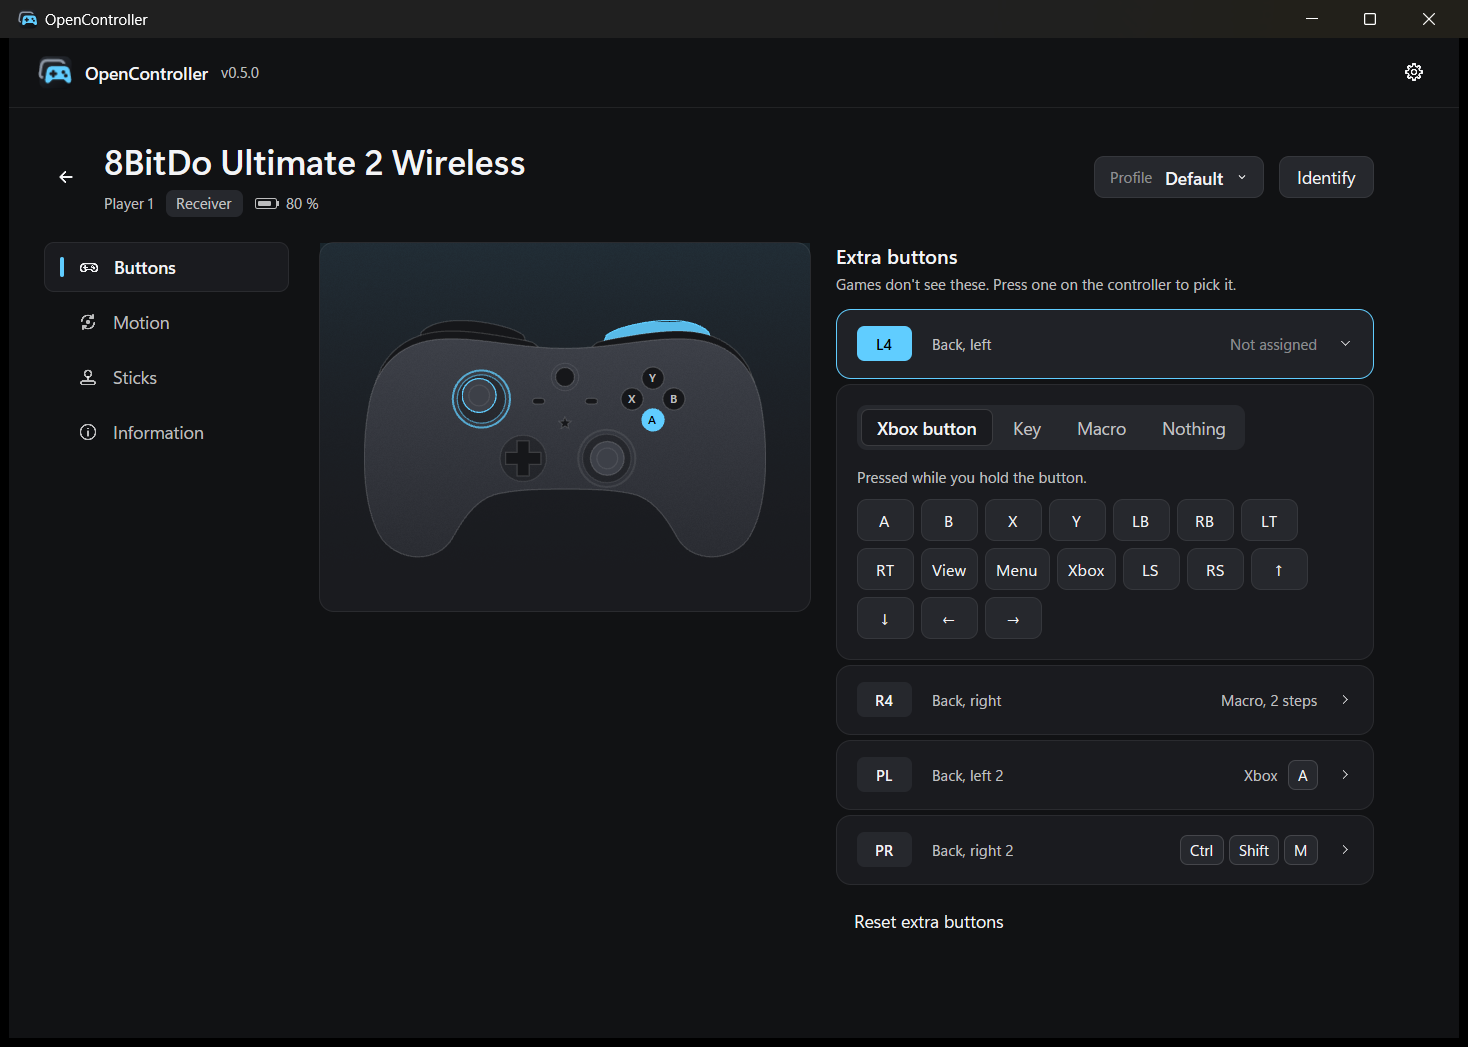
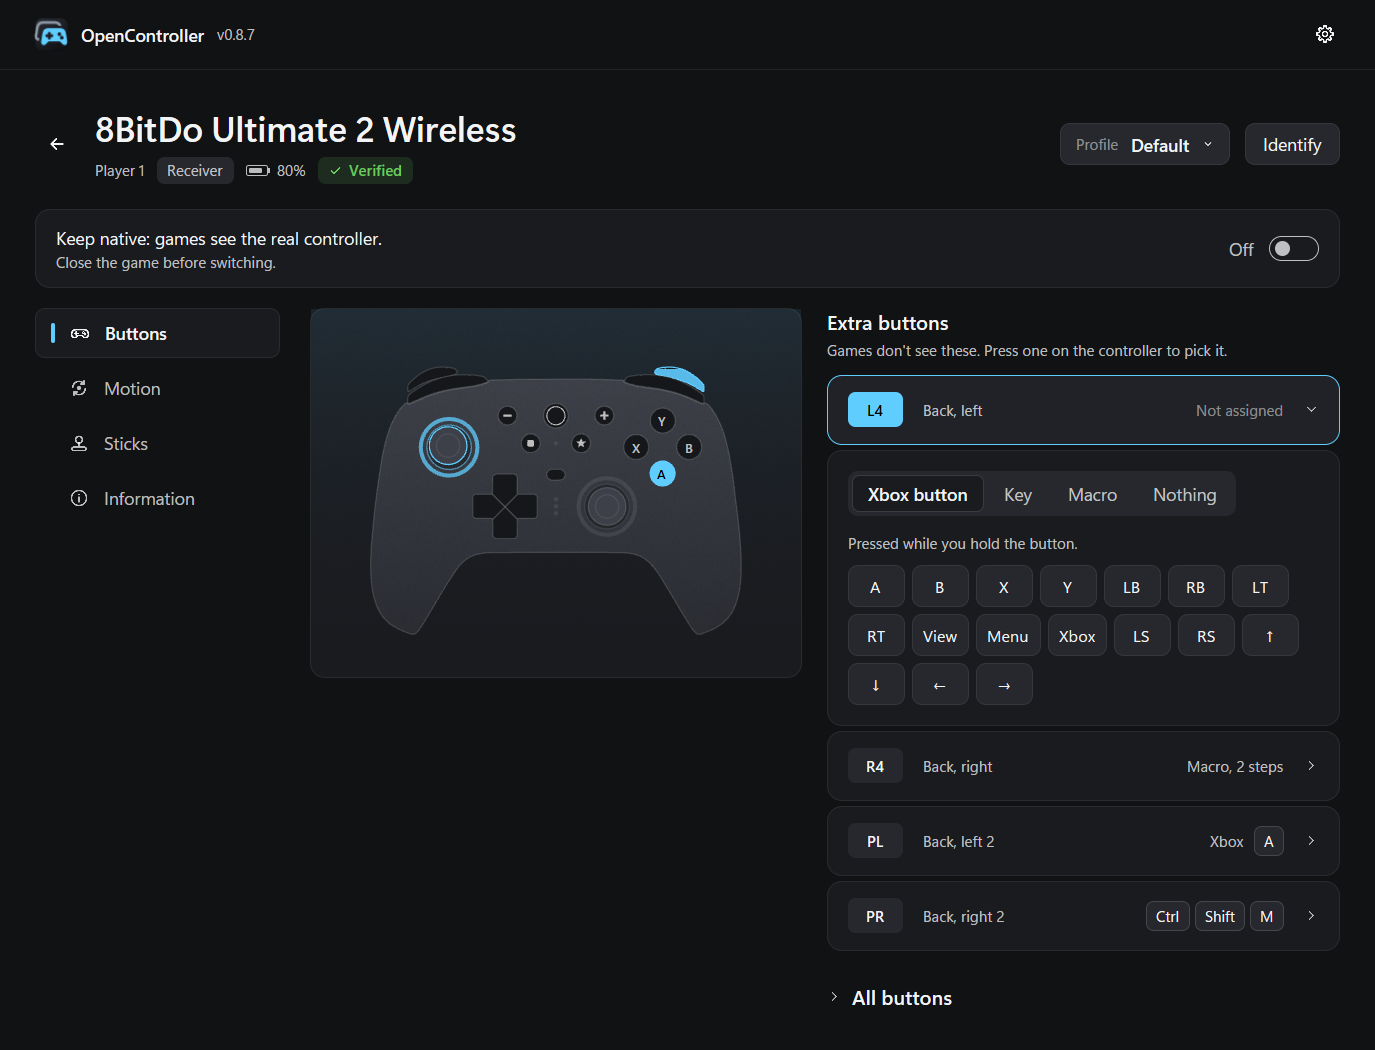
Release 0.8.7

diff --git a/README.md b/README.md
@@ -14,7 +14,7 @@ It works with the several hundred controllers SDL knows and keeps out of the way
 controller and the game. Xbox controllers are left alone, since games already read them. The
 window is a separate program that only exists while it is open.
 
-OpenController is open source (MIT) and in beta, at version 0.8.6. With so many controllers out
+OpenController is open source (MIT) and in beta, at version 0.8.7. With so many controllers out
 there, some will not work as they should yet and some features are still missing, so every report
 helps. If your controller is not recognised, a button does nothing or anything else goes wrong,
 feel free to [open an issue](https://github.com/Brunovncs/OpenController/issues); see
@@ -32,7 +32,7 @@ with its SHA-256 next to it.
 
 ### Windows
 
-Download `open-controller-0.8.6-windows-x64-setup.exe` and run it. It installs for your user only,
+Download `open-controller-0.8.7-windows-x64-setup.exe` and run it. It installs for your user only,
 without administrator rights, adds OpenController to the Start menu and to Apps in Settings
 (where it uninstalls), and starts it. Run it again over an existing installation, or let the app
 do it, and it updates in place: the running copy quits first, and your settings, kept in
@@ -40,7 +40,7 @@ do it, and it updates in place: the running copy quits first, and your settings,
 too. The installer is not code-signed, so
 SmartScreen warns the first time ("More info", then "Run anyway").
 
-To run it without installing, download `open-controller-0.8.6-windows-x64.zip`, extract it anywhere
+To run it without installing, download `open-controller-0.8.7-windows-x64.zip`, extract it anywhere
 and run `open-controller.exe`. The programs are not code-signed yet, so Windows SmartScreen warns
 on the first start ("More info", then "Run anyway"). Neither the app nor its installation needs
 administrator rights.
@@ -73,7 +73,7 @@ Windows" and "Quit". Closing the window does not stop anything.
 
 ### Linux
 
-Download `open-controller-0.8.6-linux-x64.tar.gz` (built on Ubuntu 22.04; any distribution as
+Download `open-controller-0.8.7-linux-x64.tar.gz` (built on Ubuntu 22.04; any distribution as
 recent works), extract it and run `./install.sh`. It installs the two programs to `~/.local/bin`
 with an entry in your applications menu, and a udev rule, which asks for your password once. The
 rule lets the user at the seat create virtual controllers through `/dev/uinput` and read the HID
@@ -97,7 +97,7 @@ controller keeps moving the pointer, as it does without OpenController.
 
 ### macOS
 
-Download `open-controller-0.8.6-macos-arm64.zip` (Apple silicon) or `-macos-x64.zip` (Intel) and
+Download `open-controller-0.8.7-macos-arm64.zip` (Apple silicon) or `-macos-x64.zip` (Intel) and
 move OpenController to Applications. It is not notarised: the first time, open it with a
 right-click and Open. macOS lets no program create game controllers without an entitlement Apple
 grants case by case, and games there already read PlayStation, Xbox and Switch Pro controllers

diff --git a/CHANGELOG.md b/CHANGELOG.md
@@ -3,7 +3,7 @@
 Each release's section here is its release notes on GitHub. It says what changed for someone who
 plays with OpenController, and whether settings carry over.
 
-## Unreleased
+## 0.8.7
 
 Sticks get more settings. Full tilt at makes a worn stick that no longer reaches its edge count as
 pushed all the way, and the response curve slows the middle of the travel for fine aiming, or
